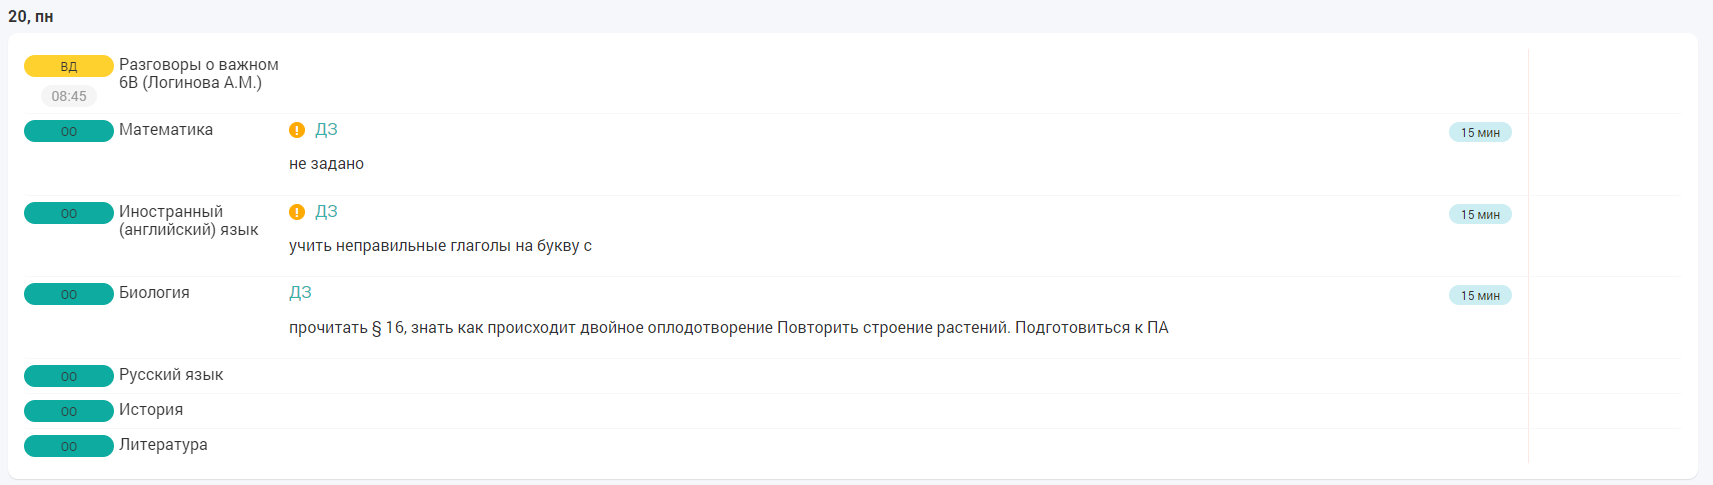
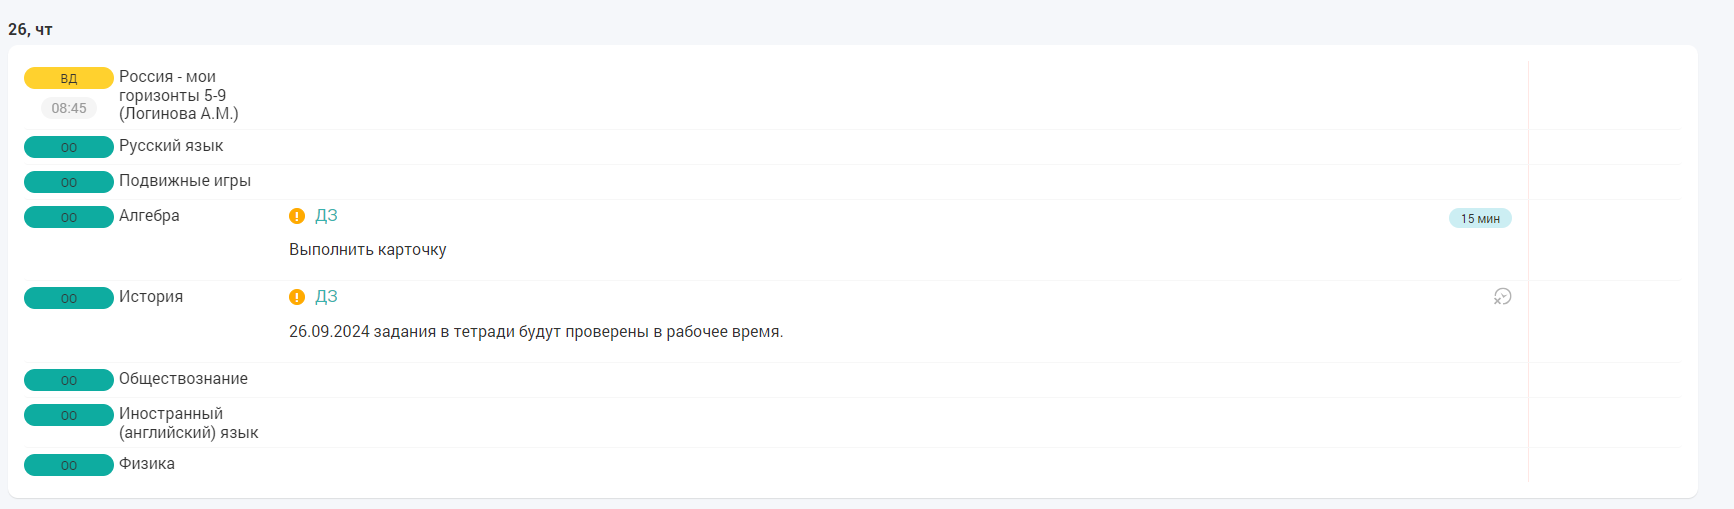
на 26

diff --git a/index.html b/index.html
@@ -26,12 +26,8 @@
       }
       </style>
       
-    <h1 align="center" style="color: rgb(  183,132,167); font-family: Impact, Haettenschweiler, 'Arial Narrow Bold', sans-serif; -webkit-text-stroke: 0.3px  rgb(61, 0, 61);"> ДЗ на 25 Сентября: </h1>
-    <p style="text-align: center;"><img src="Images/ДЗ на 25.png" width="900" height="750"></p>
-    <p style="text-align: center;"><img src="Images/ДЗ на 25(1).png" width="900" height="750"></p>
-    <p style="text-align: center;"><img src="Images/дз на 25.1.jpg" width="900" height="750"></p>
-    <p style="text-align: center;"><img src="Images/дз на 25.2.jpg" width="900" height="750"></p>
-    <p style="text-align: center;"><img src="Images/Дз по Демакова.jpg" width="900" height="750"></p>
+    <h1 align="center" style="color: rgb(  183,132,167); font-family: Impact, Haettenschweiler, 'Arial Narrow Bold', sans-serif; -webkit-text-stroke: 0.3px  rgb(61, 0, 61);"> ДЗ на 26 Сентября: </h1>
+    <p style="text-align: center;"><img src="Images/ДЗ.png" width="900" height="750"></p>
     <p style="text-align: center;"><img src="Images/по истории.jpg" width="900" height="750"></p>
 
 
